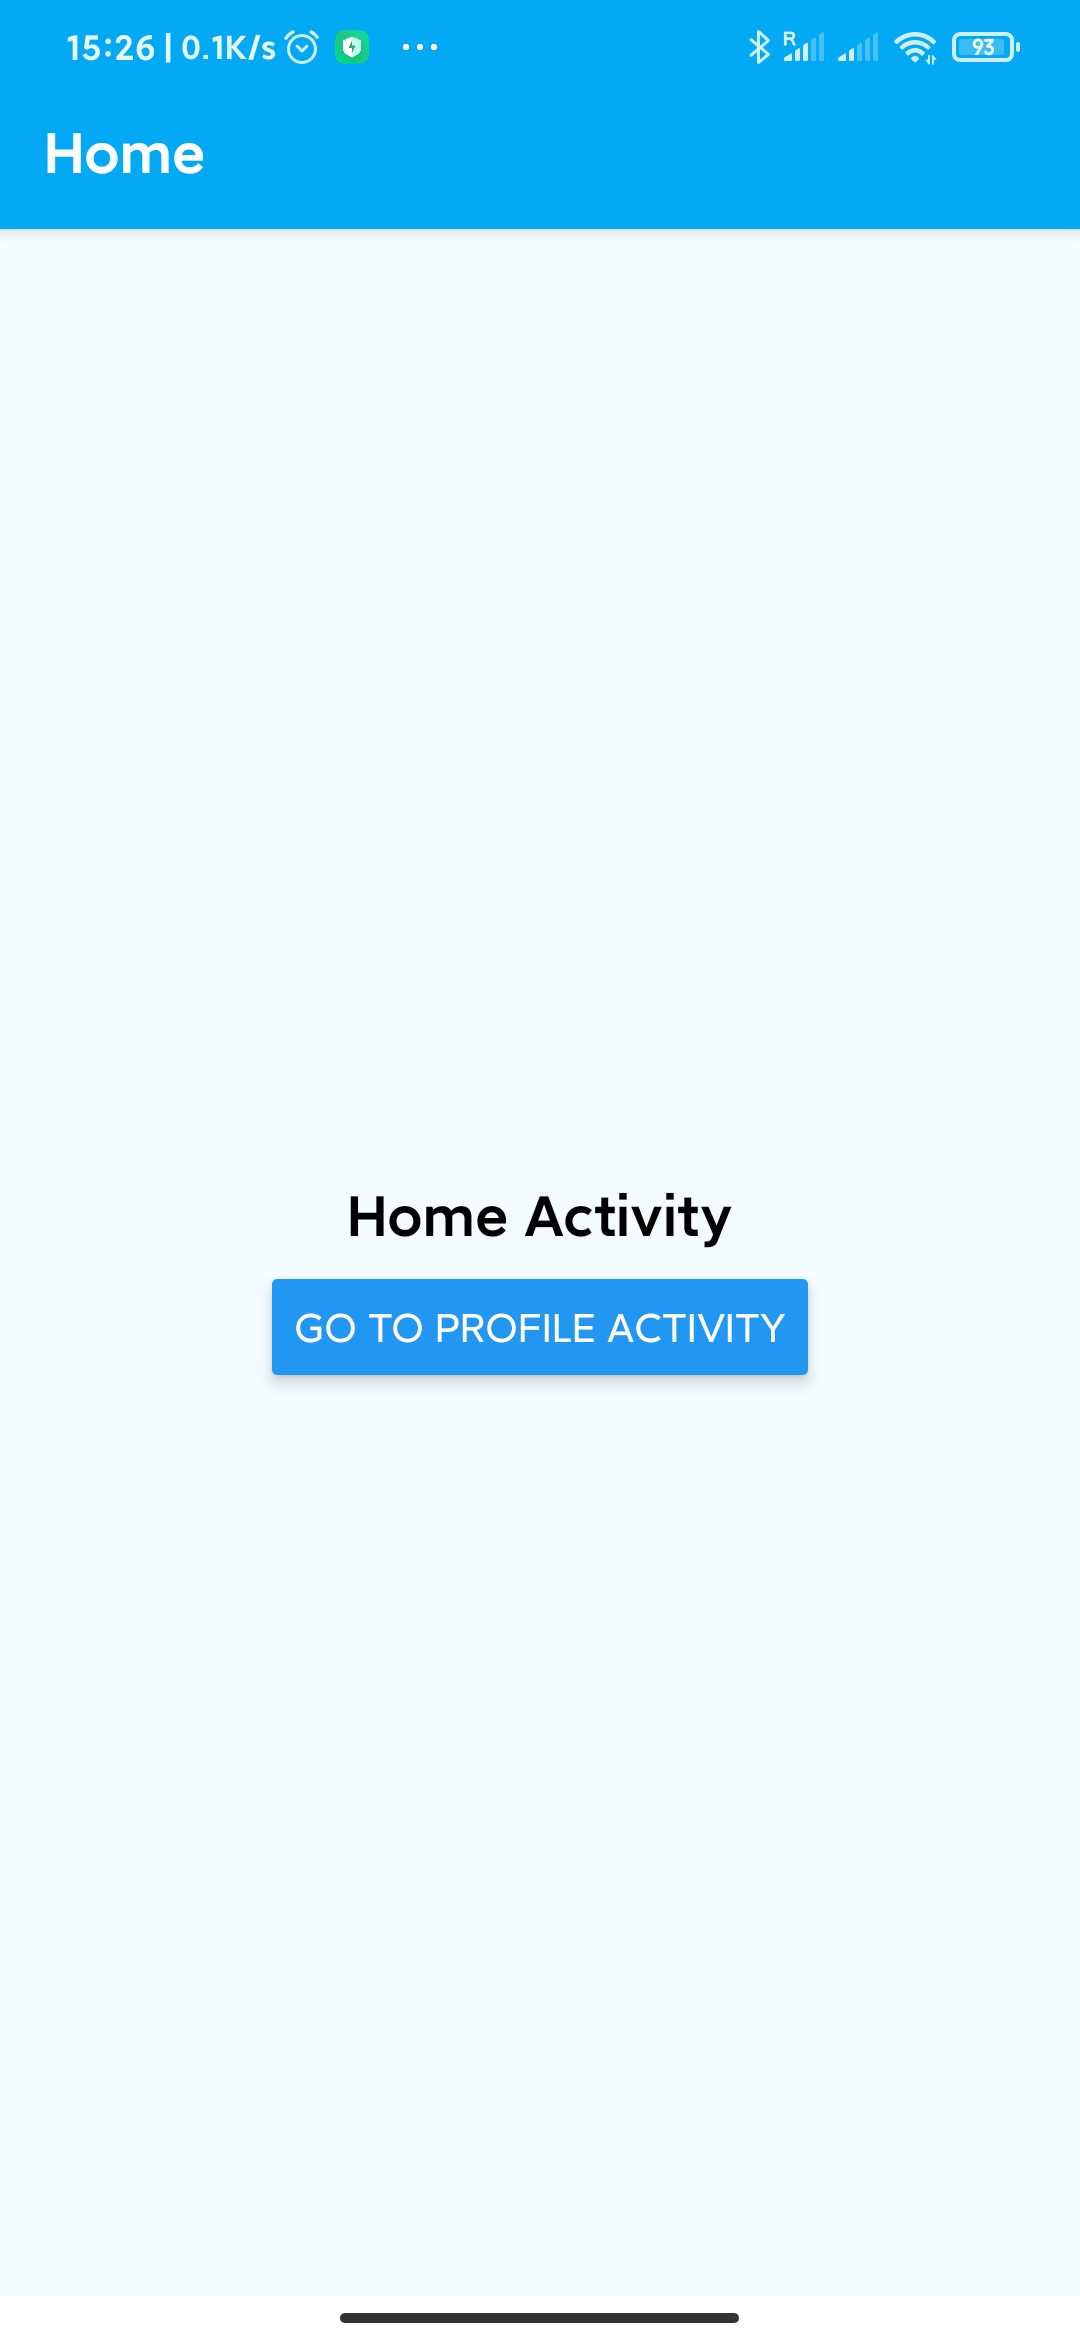
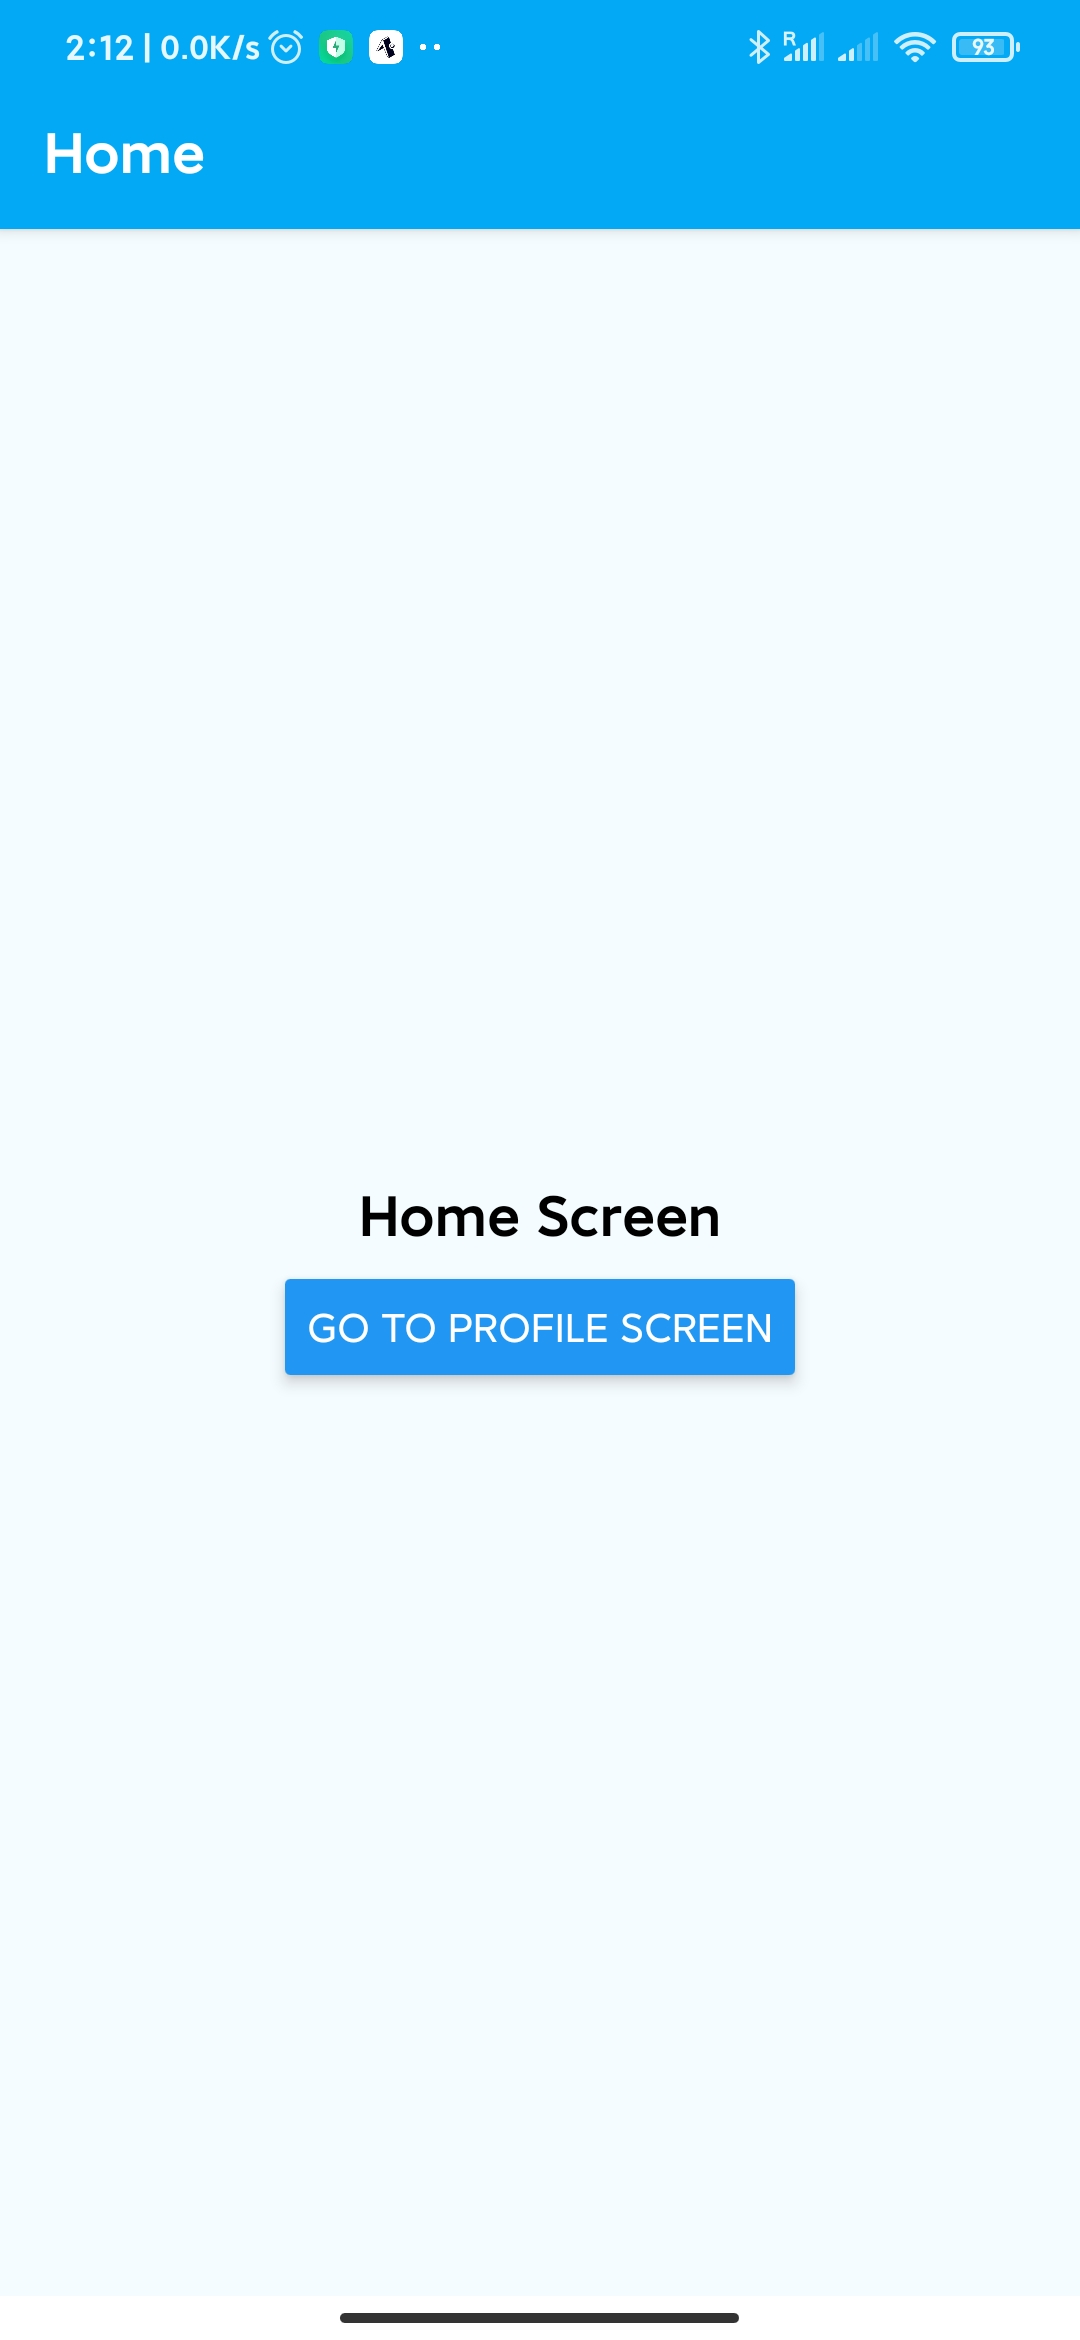
Update README and screenshots.

diff --git a/W1/README.md b/W1/README.md
@@ -1,12 +1,12 @@
 # [UoL_Y3S2_CPD](https://github.com/ArvinZJC/UoL_Y3S2_CPD)/W1
 
-In this project, there is a Snack app developed in the Week 1's workshop. You can find the source code of the app [here](https://snack.expo.io/@arvinzjc/w1). The app is my first Snack app and it enables the user to switch between the home activity and the profile activity. It can also create a new profile screen.
+In this project, there is a Snack app developed in the Week 1's workshop. You can find the source code of the app [here](https://snack.expo.io/@arvinzjc/w1). The app is my first Snack app and it enables the user to switch between the home screen and the profile screen. It can also create a new profile screen.
 
-The app is developed using Expo which is an open-source platform for making universal native apps for Android, iOS, and the web with JavaScript and React. You can preview the changes directly on your phone or tablet by clicking the **Run** button or use the simulator by clicking **Tap to Play**. By 31 March 2020, everything looks good with the platform. Some screenshots are shown as follows (Figures 1 & 2).
+The app is developed using Expo which is an open-source platform for making universal native apps for Android, iOS, and the web with JavaScript and React. You can preview the changes directly on your phone or tablet by clicking the **Run** button or use the simulator by clicking **Tap to Play**. By 2 April 2020, everything looks good with the platform. For more basic info about the packages/dependencies used, please refer to the specified JSON file (package.json). Some screenshots are shown as follows (Figures 1 & 2).
 
 ![Screenshot1.jpg](Screenshot1.jpg "Screenshot 1")Figure 1
 ![Screenshot2.jpg](Screenshot2.jpg "Screenshot 2")Figure 2
 
-When you are ready to see everything that Expo provides (or if you want to use your own editor), you can **Export** your project and use it with [Expo CLI](https://docs.expo.io/versions/latest/introduction/installation.html).
+When you are ready to see everything that Expo provides (or if you want to use your own editor), you can **Export** your project and use it with [Expo CLI](https://docs.expo.io/versions/latest/get-started/installation/).
 
 Snack is open-source. You can find the code in [the specified repository on GitHub](https://github.com/expo/snack-web).
